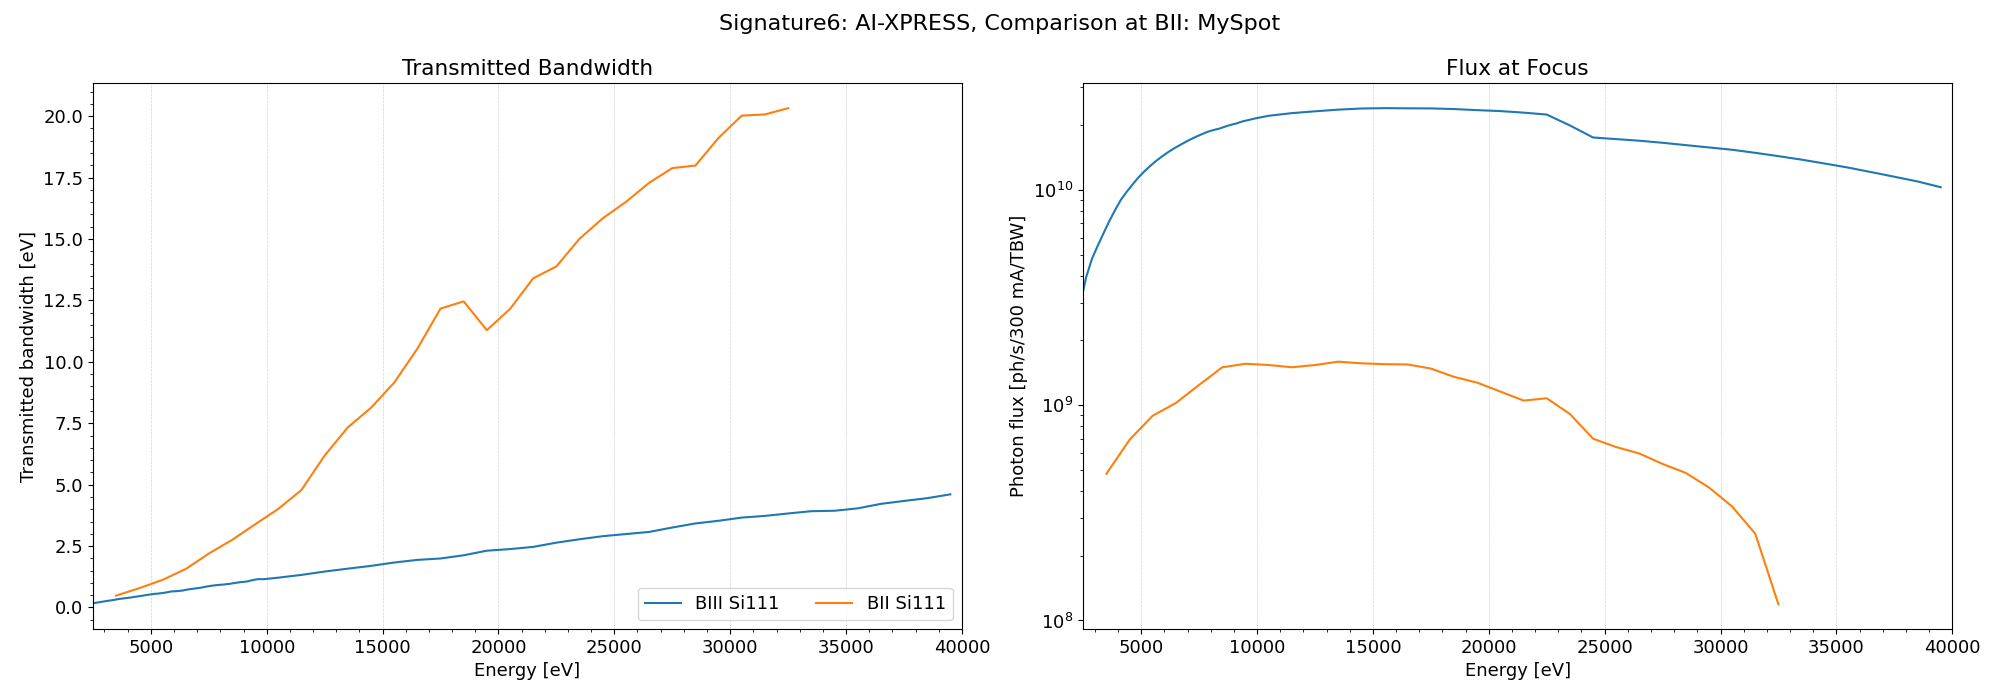
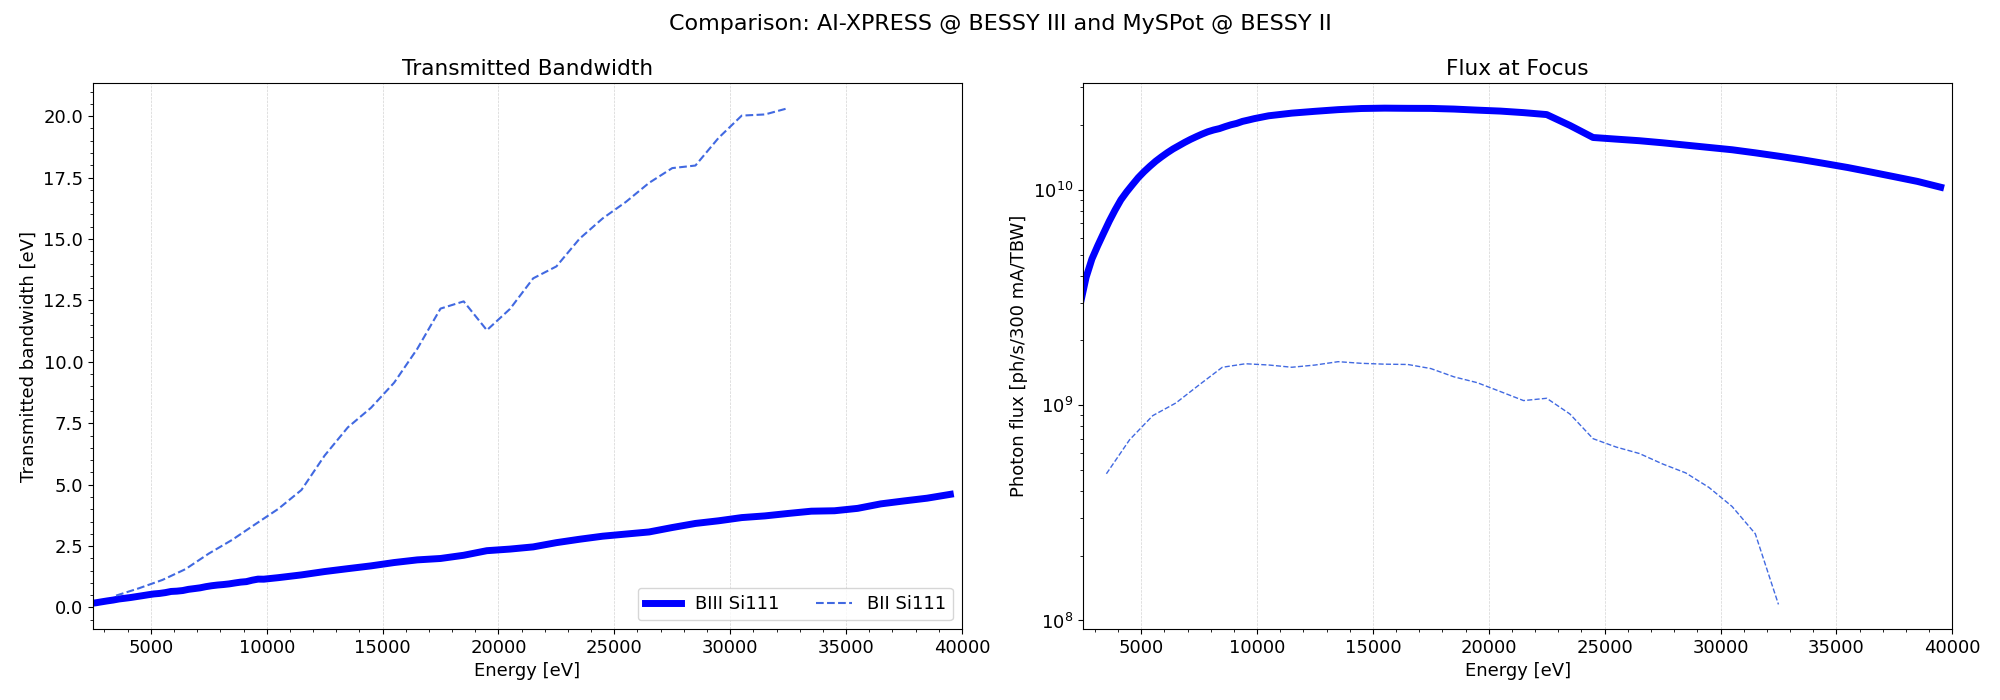
eval

diff --git a/beamlines/Signature6-AI-XPRESS/simulations/comparison_with_BII/eval_both_noPin_talk.py b/beamlines/Signature6-AI-XPRESS/simulations/comparison_with_BII/eval_both_noPin_talk.py
@@ -36,7 +36,7 @@ myspot_Si111[f'PhotonFlux'] = myspot_Si111[f'PhotonFlux']*current_factor # for 3
 plt.rcParams.update({'font.size': 13})  # Change 14 to any size you prefer
 # Create the Main figure
 fig, (axs) = plt.subplots(1, 2, figsize=(20, 7))
-fig.suptitle('Signature6: AI-XPRESS, Comparison at BII: MySpot', size=16)
+fig.suptitle('Comparison: AI-XPRESS @ BESSY III and MySPot @ BESSY II', size=16)
 x_range = [2500, 40000]
 colors = ['blue', 'red', 'green', 'orange', 'purple', 'violet']
 
@@ -59,7 +59,7 @@ IrRh, _ = get_reflectivity(IrRh, E=E, theta=theta)
 
 ax1.plot(E, Ir, 'grey', label='Ir', alpha=0.5, linewidth=1.5)
 ax1.plot(E, Rh, 'blue', label='Rh', alpha=0.5, linewidth=1.5)
-ax1.plot(E, IrRh, 'black', label='IrRh', linewidth=2)
+ax1.plot(E, IrRh, 'black', label='IrRh', linewidth=5)
 
 ax1.set_title('Mirror Coating Reflectivity @ 'f'{theta}° incident angle')
 ax1.set_xlabel('Energy [eV]')
@@ -77,11 +77,16 @@ ax2 = axs[1]
 
 ax2.plot(BL_df_si111[f'PhotonEnergy'],
             BL_df_si111[f'SourcePhotonFlux'],
-            label='BIII SB 4T')
+            label='BIII SB 4T', 
+            color='blue',
+            linewidth=5)
 
 ax2.plot(myspot_Si111[f'PhotonEnergy'],
             myspot_Si111[f'SourcePhotonFlux'],
-            label='BII WS 7T')
+            label='BII WS 7T',
+            color='royalblue', 
+            linestyle='dashed',
+)
 
 
     
@@ -94,7 +99,6 @@ ax2.set_yscale('log')
 ax2.minorticks_on()
 ax2.grid(which='major', axis='x', linestyle='--', linewidth=0.5, color='lightgrey')
 
-##############################################################
 # SAVING
 # Ensure the "plot" folder exists
 plot_folder = 'plot'
@@ -108,7 +112,7 @@ plt.savefig('plot/talk/AI_XPRESS_MySpot_comparison_noPinhole_1.png')
 plt.close()
 
 fig, (axs) = plt.subplots(1, 2, figsize=(20, 7))
-fig.suptitle('Signature6: AI-XPRESS, Comparison at BII: MySpot', size=16)
+fig.suptitle('Comparison: AI-XPRESS @ BESSY III and MySPot @ BESSY II', size=16)
 # TRANSMITTED BANDWIDTH
 ax3 = axs[0]
 
@@ -117,11 +121,14 @@ window = 2
 # Si111 BIII
 ax3.plot(mov_av(BL_df_si111['PhotonEnergy'], window), 
             mov_av(BL_df_si111['Bandwidth'], window),
-            label=f'BIII Si111')    
+            label=f'BIII Si111', 
+            color='blue', linewidth=5)    
 # Si111 BII
 ax3.plot(mov_av(myspot_Si111['PhotonEnergy'], window), 
             mov_av(myspot_Si111['Bandwidth'], window),
-            label=f'BII Si111')    
+            label=f'BII Si111', 
+            color='royalblue', 
+            linestyle='dashed')    
  
 
 ax3.set_title(f'Transmitted Bandwidth')
@@ -140,11 +147,14 @@ ax4 = axs[1]
 # BIII Si111
 ax4.plot(mov_av(BL_df_si111['PhotonEnergy'], window), 
             mov_av(BL_df_si111['PhotonFlux'], window),
-            label=f'BIII Si111')    
+            label=f'BIII Si111', 
+            color='blue', linewidth=5)    
 # BII Si111
 ax4.plot(mov_av(myspot_Si111['PhotonEnergy'], window), 
             mov_av(myspot_Si111['PhotonFlux'], window),
-            label=f'BII Si111')   
+            label=f'BII Si111', 
+            color='royalblue', linewidth=1, 
+            linestyle = 'dashed')   
 
 ax4.set_title('Flux at Focus')
 ax4.set_xlabel('Energy [eV]')
@@ -161,119 +171,69 @@ plt.savefig('plot/talk/AI_XPRESS_MySpot_comparison_noPinhole_2.png')
 plt.close()
 
 fig, (axs) = plt.subplots(1, 2, figsize=(20, 7))
-fig.suptitle('Signature6: AI-XPRESS, Comparison at BII: MySpot', size=16)
-
-# # RESOLVING POWER
-# ax5 = axs[2, 0]
-# window = 1
-
-# # BIII Si111
-# ax5.plot(mov_av(BL_df_si111['PhotonEnergy'], window),
-#          mov_av(BL_df_si111[f'PhotonEnergy']/BL_df_si111[f'Bandwidth'], window),
-#          linestyle='solid', label='BIII Si111')
-
-# # BII Si111
-# ax5.plot(mov_av(myspot_Si111['PhotonEnergy'], window),
-#          mov_av(myspot_Si111[f'PhotonEnergy']/myspot_Si111[f'Bandwidth'], window),
-#          linestyle='solid', label='BII Si111')
+fig.suptitle('Comparison: AI-XPRESS @ BESSY III and MySPot @ BESSY II', size=16)
 
 
 
-# ax5.set_title(f'Resolving Power')
-# ax5.set_xlabel('Energy [eV]')
-# ax5.set_ylabel(r'$\frac{E}{\Delta E}$ [a.u.]')
-# ax5.set_xlim(x_range)
-# ax5.legend(loc='best')
-# ax5.minorticks_on()
-# ax5.set_ylim(0, 20000)
-# ax5.grid(which='major', axis='x', linestyle='--', linewidth=0.5, color='lightgrey')
 
 
-# # Flux Density
-# ax6 = axs[2, 1]
+##############################################################
+fig, (axs) = plt.subplots(1, 2, figsize=(20, 7))
+fig.suptitle('Comparison: AI-XPRESS @ BESSY III and MySPot @ BESSY II', size=16)
+# RESOLVING POWER
+ax3 = axs[0]
+
+window = 2
+
+# Si111 BIII
+ax3.plot(mov_av(BL_df_si111['PhotonEnergy'], window), 
+            mov_av(BL_df_si111['PhotonEnergy']/BL_df_si111['Bandwidth'], window),
+            label=f'BIII Si111', 
+            color='blue', linewidth=5)    
+# Si111 BII
+ax3.plot(mov_av(myspot_Si111['PhotonEnergy'], window), 
+            mov_av(myspot_Si111['PhotonEnergy']/myspot_Si111['Bandwidth'], window),
+            label=f'BII Si111', 
+            color='royalblue', 
+            linestyle='dashed')    
+ 
+
+ax3.set_title(f'Resolving Power')
+ax3.set_xlabel('Energy [eV]')
+ax3.set_ylabel('Resolving Power [a.u.]')
+ax3.set_xlim(x_range)
+ax3.minorticks_on()
+# ax3.set_yscale('log')
+ax3.grid(which='major', axis='x', linestyle='--', linewidth=0.5, color='lightgrey')
+ax3.legend(loc='lower right', ncol=2)
 
 
-# # BIII Si111
-# foc_area = (BL_df_si111['VerticalFocusFWHM']*BL_df_si111['HorizontalFocusFWHM'])*1000  # in µm²
+# BEAMLINE FLUX CURVE
+ax4 = axs[1]
 
-# ax6.plot(BL_df_si111['PhotonEnergy'],
-#              BL_df_si111[f'PhotonFlux']/foc_area,
-#              label=f'BIII Si111')
-    
-# # BIII Si111
-# foc_area = (myspot_Si111['VerticalFocusFWHM']*myspot_Si111['HorizontalFocusFWHM'])*1000  # in µm²
+# BIII Si111
+ax4.plot(mov_av(BL_df_si111['PhotonEnergy'], window), 
+            mov_av(BL_df_si111['PhotonFlux'], window),
+            label=f'BIII Si111', 
+            color='blue', linewidth=5)    
+# BII Si111
+ax4.plot(mov_av(myspot_Si111['PhotonEnergy'], window), 
+            mov_av(myspot_Si111['PhotonFlux'], window),
+            label=f'BII Si111', 
+            color='royalblue', linewidth=1, 
+            linestyle = 'dashed')   
 
-# ax6.plot(myspot_Si111['PhotonEnergy'],
-#              myspot_Si111[f'PhotonFlux']/foc_area,
-#              label=f'BII Si111')
+ax4.set_title('Flux at Focus')
+ax4.set_xlabel('Energy [eV]')
+ax4.set_ylabel('Photon flux [ph/s/300 mA/TBW]')
+ax4.set_xlim(x_range)
+ax4.minorticks_on()
+ax4.grid(which='major', axis='x', linestyle='--', linewidth=0.5, color='lightgrey')
+ax4.set_yscale('log')
 
-
-# ax6.set_title('Flux Density')
-# ax6.set_xlabel('Energy [eV]')
-# ax6.set_ylabel('Photons flux per µm²')
-# ax6.set_xlim(x_range)
-# ax6.set_yscale('log')
-# ax6.minorticks_on()
-# ax6.grid(which='major', axis='x', linestyle='--', linewidth=0.5, color='lightgrey')
-
-# ####################################################
-# # Focus at BIII
-# ax7 = axs[3,0]
-# x_lim =(-450,450)
-# y_lim =(-450,450)
-# focus_path = os.path.join('plot', 'AI-XPRESS_DetectorAtFocus-RawRaysOutgoing.csv')
-# focus = pd.read_csv(
-#     focus_path,
-#     sep='\t',        # columns separated by tabs
-#     decimal='.',     # use comma as decimal separator
-#     skiprows=1       # skip the first line (the 'sep=' line)
-# )
-# x = focus['DetectorAtFocus_OX'] * 1e3
-# y = focus['DetectorAtFocus_OY'] * 1e3
-
-
-# ax7.scatter(x,y, s=4, color='yellow', alpha=1)
-
-# ax7.set_facecolor('#002147')
-
-
-# ax7.set_xlim(x_lim)
-# ax7.set_ylim(y_lim)
-
-# ax7.set_xlabel('µm')
-# ax7.set_ylabel('µm')
-# hor_foc = np.mean(BL_df_si111['HorizontalFocusFWHM']*1e3)
-# ver_foc = np.mean(BL_df_si111['VerticalFocusFWHM']*1e3)
-# ax7.set_title(f'AI-XPRESS Focus, FWHM(HxV) {50:.0f} x {50:.0f} µm²')
-
-# ####################################################
-# # Focus at BII
-# ax8 = axs[3,1]
-
-# focus_path = os.path.join('plot', 'MySpot_noPinhole_DetectorAtFocus-RawRaysOutgoing.csv')
-# focus = pd.read_csv(
-#     focus_path,
-#     sep='\t',        # columns separated by tabs
-#     decimal='.',     # use comma as decimal separator
-#     skiprows=1       # skip the first line (the 'sep=' line)
-# )
-# x = focus['DetectorAtFocus_OX'] * 1e3
-# y = focus['DetectorAtFocus_OY'] * 1e3
-
-# ax8.scatter(x,y, s=4, color='yellow', alpha=1)
-
-# ax8.set_facecolor('#002147')
-
-
-# ax8.set_xlim(x_lim)
-# ax8.set_ylim(y_lim)
-
-# ax8.set_xlabel('µm')
-# ax8.set_ylabel('µm')
-# hor_foc = np.mean(BL_df_si111['HorizontalFocusFWHM']*1e3)
-# ver_foc = np.mean(BL_df_si111['VerticalFocusFWHM']*1e3)
-# ax8.set_title(f'MySpot Focus, FWHM(HxV) {270:.0f} x {150:.0f} µm²')
-
-
-
+# Save the the figure
+plt.tight_layout()
+plt.savefig('plot/talk/AI_XPRESS_MySpot_comparison_noPinhole_3.png')
+# plt.show()
+plt.close()
 
